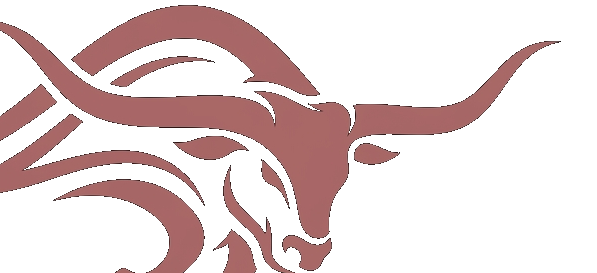
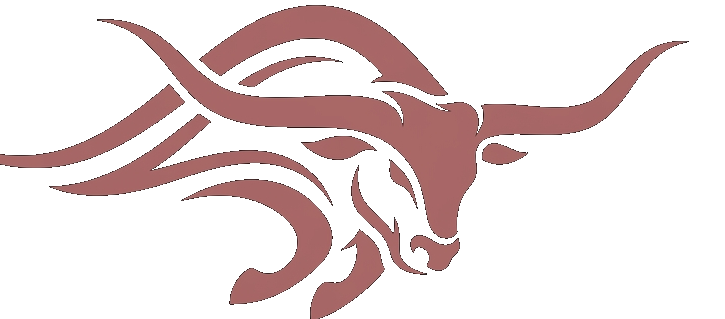
fix: full bull body in watermark + dark scrollbar to kill white right edge

diff --git a/src/app/globals.css b/src/app/globals.css
@@ -53,4 +53,19 @@
     background-color: #000000 !important;
     max-width: 100vw;
   }
+  /* Hide scrollbar or make it black */
+  ::-webkit-scrollbar {
+    width: 8px;
+    background: #000000;
+  }
+  ::-webkit-scrollbar-track {
+    background: #000000;
+  }
+  ::-webkit-scrollbar-thumb {
+    background: #1a1a1a;
+    border-radius: 4px;
+  }
+  * {
+    scrollbar-color: #1a1a1a #000000;
+  }
 }
